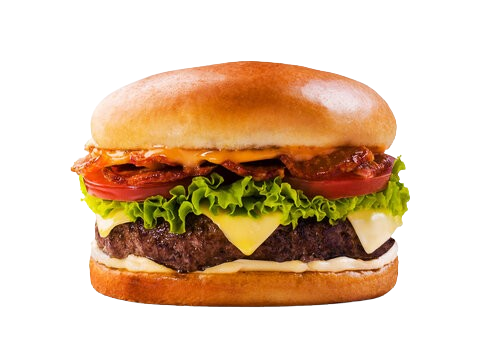
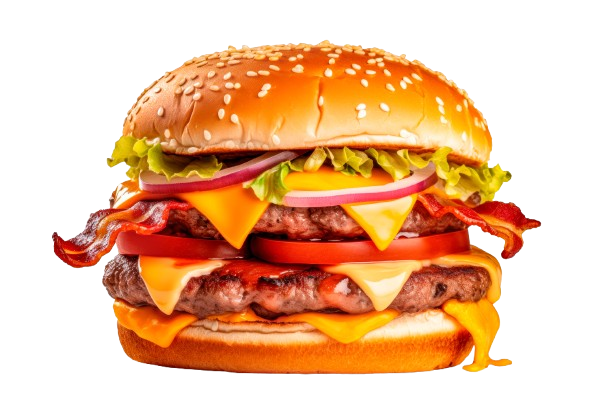
Bom noite

diff --git a/frontend/src/pages/landingpage/index.jsx b/frontend/src/pages/landingpage/index.jsx
@@ -65,6 +65,8 @@ export default function Landingpage() {
                   <i className='fa-solid fa-star'></i>
                   <i className='fa-solid fa-star'></i>
                   <i className='fa-solid fa-star'></i>
+                  <i className='fa-solid fa-star'></i>
+                  <i className='fa-solid fa-star'></i>
               </div>
 
               <div className="buguer-preco">
@@ -83,17 +85,19 @@ export default function Landingpage() {
                 <i className='fa-solid fa-heart'></i>
               </div>
 
-              <img src="/assets/images/landingpage/cardapio/buguer1.png" className='buguer-imagem'/>
+              <img src="/assets/images/landingpage/cardapio/buguer2.png" className='buguer-imagem'/>
 
-              <h3 className='buguer-titulo'>Cheese Fresh</h3>
+              <h3 className='buguer-titulo'>Cheddar Deluxe</h3>
 
 
               <span className='buguer-descricao'>
-      
-                Carne, queijo derretido, tomate fresco e salada de alface.
+
+                Duas Carne, cheddar, bacon, alface, tomate, cebola.
               </span>
 
               <div className="buguer-avaliacao">
+                  <i className='fa-solid fa-star'></i>
+                  <i className='fa-solid fa-star'></i>
                   <i className='fa-solid fa-star'></i>
                   <i className='fa-solid fa-star'></i>
                   <i className='fa-solid fa-star'></i>
@@ -115,16 +119,18 @@ export default function Landingpage() {
                 <i className='fa-solid fa-heart'></i>
               </div>
 
-              <img src="/assets/images/landingpage/cardapio/buguer1.png" className='buguer-imagem'/>
+              <img src="/assets/images/landingpage/cardapio/buguer3.png" className='buguer-imagem3'/>
 
               <h3 className='buguer-titulo'>Cheddar Special </h3>
 
 
               <span className='buguer-descricao'>
-              Carne, cheddar derretido, tomate fresco, cebola crocante e salada.
+              Carne, cheddar, tomate fresco, cebola, salada.
               </span>
 
               <div className="buguer-avaliacao">
+                  <i className='fa-solid fa-star'></i>
+                  <i className='fa-solid fa-star'></i>
                   <i className='fa-solid fa-star'></i>
                   <i className='fa-solid fa-star'></i>
                   <i className='fa-solid fa-star'></i>
@@ -157,8 +163,7 @@ export default function Landingpage() {
 
                   <div className="one">
                     <h1>Historia</h1>
-                    <p>Lucas sempre foi apaixonado por cozinhar e decidiu criar o hambúrguer perfeito. Assim nasceu a Best's Burguer. No início, foi difícil, mas ele logo percebeu que o segredo estava em usar ingredientes frescos e locais. Seus hambúrgueres criativos, como o de queijo de cabra com geleia de pimenta, conquistaram a galera.
-                    Hoje, a Best's Burguer é um ponto de encontro onde amigos se reúnem para compartilhar risadas e saborear hambúrgueres incríveis. </p>
+                    <p>Simone sempre foi apaixonado por cozinhar e decidiu criar o hambúrguer perfeito. Assim nasceu a Best's Burguer. No início, foi difícil, mas ele logo percebeu que o segredo estava em usar ingredientes frescos e locais. Seus hambúrgueres criativos, como o de queijo de cabra com geleia de pimenta, conquistaram a galera. Hoje, a Best's Burguer é um ponto de encontro onde amigos se reúnem para compartilhar risadas e saborear hambúrgueres incríveis. </p>
                   </div>
 
 
@@ -176,8 +181,7 @@ export default function Landingpage() {
                   
                   
                     <h1>Historia</h1>
-                    <p>Lucas sempre foi apaixonado por cozinhar e decidiu criar o hambúrguer perfeito. Assim nasceu a Best's Burguer. No início, foi difícil, mas ele logo percebeu que o segredo estava em usar ingredientes frescos e locais. Seus hambúrgueres criativos, como o de queijo de cabra com geleia de pimenta, conquistaram a galera.
-                    Hoje, a Best's Burguer é um ponto de encontro onde amigos se reúnem para compartilhar risadas e saborear hambúrgueres incríveis. </p>
+                    <p>Simone sempre foi apaixonado por cozinhar e decidiu criar o hambúrguer perfeito. Assim nasceu a Best's Burguer. No início, foi difícil, mas ele logo percebeu que o segredo estava em usar ingredientes frescos e locais. Seus hambúrgueres criativos, como o de queijo de cabra com geleia de pimenta, conquistaram a galera. Hoje, a Best's Burguer é um ponto de encontro onde amigos se reúnem para compartilhar risadas e saborear hambúrgueres incríveis.</p>
 
                 
 
@@ -259,10 +263,11 @@ export default function Landingpage() {
                             <i className='fa-solid fa-star'></i>
                             <i className='fa-solid fa-star'></i>
                             <i className='fa-solid fa-star'></i>
+                            <i className='fa-solid fa-star'></i>
                           </span>
                         </p>
 
-                        <p className='um'>Maravilhoso, sabor incrivel,alem do atendimento!!</p>
+                        <p className='um'> Hambúrgueres criativos e saborosos em um ambiente acolhedor!!</p>
                     </div>
 
                 </div>
@@ -277,9 +282,11 @@ export default function Landingpage() {
                             <i className='fa-solid fa-star'></i>
                             <i className='fa-solid fa-star'></i>
                             <i className='fa-solid fa-star'></i>
+                            <i className='fa-solid fa-star'></i>
                           </span>
                         </p>
-                        <p className='dois'>Tudo perfeito, adorei o atendimento, alem do hambuguer!!</p>
+                        <p className='dois'>
+                        Sabores únicos de hambúrgueres em um espaço aconchegante.</p>
                     </div>
                 </div>
                

diff --git a/frontend/src/components/landingpage/cabecalho/index.jsx b/frontend/src/components/landingpage/cabecalho/index.jsx
@@ -8,12 +8,14 @@ export default function Cabecalho() {
         setMobilebtn(!mobilebtn);
     }
 
+
+
     const icones = mobilebtn ? "fa-times" : "fa-bars" ;
 
     return (
         <header>
             <nav id="navbar">
-                <i className="fa-solid fa-burger" id="logo"> BURGER'S</i> 
+                <i id="logo"> BURGER'S</i> 
                 <ul id="nav_list">
                     <li className="nav_item active">
                         <a href="#inicio">Inicio</a>

diff --git a/frontend/public/index.html b/frontend/public/index.html
@@ -2,7 +2,7 @@
 <html lang="en">
   <head>
     <meta charset="utf-8" />
-    <link rel="icon" href="%PUBLIC_URL%/favicon.ico" />
+    <link rel="icon" href="%PUBLIC_URL%/assets/images/landingpage/cabecalho/logo.png" />
     <meta name="viewport" content="width=device-width, initial-scale=1" />
     <meta name="theme-color" content="#000000" />
     <meta

diff --git a/frontend/src/pages/landingpage/index.scss b/frontend/src/pages/landingpage/index.scss
@@ -175,6 +175,13 @@
       .buguer-imagem {
         width: 95%;
       }
+
+      .buguer-imagem3{
+
+        width: 75%;
+
+
+      }
     }
 
     .icone {
